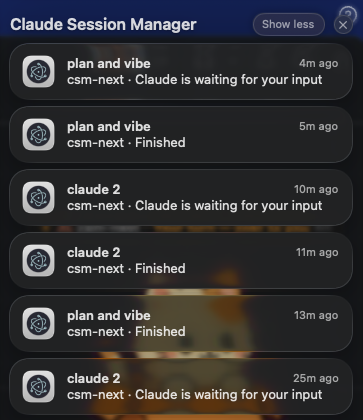
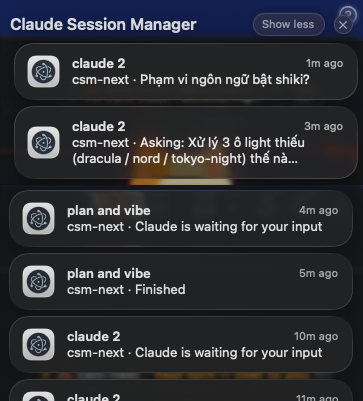
Ảnh thông báo: đổi sang mấy dòng có chép câu Claude đang hỏi
Ảnh cũ toàn "Claude is waiting for your input" với "Finished", nhìn qua là hết,
không nói thêm được gì. Chỗ đáng khoe của thông báo lại nằm ở chỗ khác: nó chép
luôn câu Claude đang hỏi, kiểu "Phạm vi ngôn ngữ bật shiki?" hay "Asking: Xử lý 3
ô light thiếu (dracula / nord / tokyo-night) thế nào". Đọc dòng đó là biết con đó
vướng chỗ nào, nhiều lúc quyết được luôn trong đầu, mở app ra chỉ để gõ một chữ.

Nên ảnh giờ là hai câu hỏi ở trên, mấy dòng báo trạng thái ở dưới. Ghép từ hai
lần chụp, ráp theo đúng mép thẻ nên không thấy đường nối; chú thích trên slide và
ghi chú diễn giả đều nói rõ là ảnh ghép, không nhận là một lần chụp.

Kịch bản đổi theo: nhịp nói giờ dừng lại ở hai dòng trên cùng thay vì đọc lướt
cả chồng.

diff --git a/slides/index.html b/slides/index.html
@@ -654,21 +654,21 @@ html.laser-on, html.laser-on * { cursor: none !important; }
     <div class="vcen stack">
       <p class="kicker">Nhóm 1</p>
       <h2 style="font-size:33px">Không ngồi canh thì nó tự gọi</h2>
-      <p>Bên cạnh là trung tâm thông báo của máy sau một buổi sáng. Ảnh chụp nguyên, không dựng.</p>
-      <div class="feat"><span class="k">◆</span><p><b>Claude is waiting for your input</b>: con đó đang hỏi, và nó đứng chờ tới lúc mình trả lời.</p></div>
-      <div class="feat"><span class="k">◆</span><p><b>Finished</b>: con đó chạy xong, tới lượt mình đọc.</p></div>
+      <div class="feat"><span class="k">◆</span><p><b>Thông báo mang theo luôn câu Claude đang hỏi</b>, chứ không phải một dòng chung chung. Đọc là biết con đó vướng chỗ nào, chưa cần mở app ra xem.</p></div>
+      <div class="feat"><span class="k">◆</span><p>Con nào đứng chờ thì báo <b>waiting for your input</b>, con nào chạy xong thì báo <b>Finished</b>.</p></div>
       <div class="feat"><span class="k">◆</span><p>Bấm vào một dòng là app <b>mở thẳng đúng session đó</b>, không phải đi tìm lại trong cây.</p></div>
       <p class="sub">Chữ đậm là tên session mình tự đặt, chữ sau là tên dự án. Nhìn dòng thông báo là biết con nào, khỏi đoán.</p>
     </div>
     <figure class="noti">
       <div class="noti-shot"><img src="../assets/noti-stack.png" alt="Trung tâm thông báo của macOS xếp chồng các thông báo từ Claude Session Manager"></div>
-      <figcaption>Sáu thông báo trong 25 phút, từ hai session của cùng một dự án.</figcaption>
+      <figcaption>Ảnh thật, ghép từ hai lần chụp: hai câu hỏi ở trên, mấy dòng báo trạng thái ở dưới.</figcaption>
     </figure>
   </div>
   <div class="foot"><span>Phần 3 &nbsp;·&nbsp; Tính năng</span><span class="pg"></span></div>
   <aside class="notes">
     <p>Đây là chỗ trả lời câu "chạy bốn con thì canh kiểu gì". Không canh. Đi làm việc khác, con nào cần thì nó tự gọi.</p>
-    <p>Nếu có người hỏi kỹ: mấy dòng này do Claude Code báo cho app qua hook, nên là trạng thái thật, không phải đoán theo thời gian.</p>
+    <p>Chỉ vào hai dòng trên cùng. Đó mới là chỗ đáng nói: thông báo chép luôn câu Claude đang hỏi, nên nhiều lúc đọc xong là quyết được, khỏi mở app.</p>
+    <p>Nếu có người hỏi kỹ: mấy dòng này do Claude Code báo cho app qua hook, nên là trạng thái thật, không phải đoán theo thời gian. Ảnh là ghép từ hai lần chụp, nói luôn nếu ai để ý giờ.</p>
   </aside>
 </section>
 

diff --git a/script/script-vi.md b/script/script-vi.md
@@ -271,16 +271,20 @@ chạy. Đừng đọc hết gạch đầu dòng, chỉ nhấn 2 ý mỗi slide.
 
 **Slide 14. Thông báo hệ điều hành.** [Ảnh thật. Chỉ vào ảnh, đừng đọc từng dòng.]
 
-> Đây là trung tâm thông báo máy mình sau một buổi sáng. Chụp nguyên, không dựng.
+> Đây là trung tâm thông báo máy mình. Ảnh thật, ghép từ hai lần chụp.
 >
-> Hai loại dòng thôi. **Waiting for your input** là con đó đang hỏi và đứng chờ.
-> **Finished** là con đó chạy xong. Chữ đậm là tên session mình tự đặt, chữ sau là
-> tên dự án, nên nhìn dòng thông báo là biết con nào.
+> [Chỉ vào hai dòng trên cùng.] Chỗ đáng nói là đây. Thông báo **chép luôn câu
+> Claude đang hỏi**, chứ không phải một dòng chung chung kiểu "có việc cần bạn".
+> Đọc "Phạm vi ngôn ngữ bật shiki?" là mình biết ngay con đó vướng chỗ nào. Nhiều
+> lúc đọc xong quyết được luôn trong đầu, mở app ra chỉ để gõ một chữ.
+>
+> Mấy dòng dưới là báo trạng thái: con nào đứng chờ, con nào chạy xong. Chữ đậm là
+> tên session mình tự đặt, chữ sau là tên dự án, nên nhìn là biết con nào.
 >
 > Bấm vào một dòng là app mở thẳng đúng session đó.
 >
-> Sáu dòng này trong 25 phút, từ hai con. Ý mình muốn nói là: mình không ngồi canh
-> cái nào cả. Đi làm việc khác, con nào cần thì nó tự gọi.
+> Ý mình muốn nói là: mình không ngồi canh cái nào cả. Đi làm việc khác, con nào
+> cần thì nó tự gọi, và gọi kèm luôn lý do.
 
 **Slide 15. Hộp thư chú ý.** [Bỏ được nếu trễ giờ]
 
